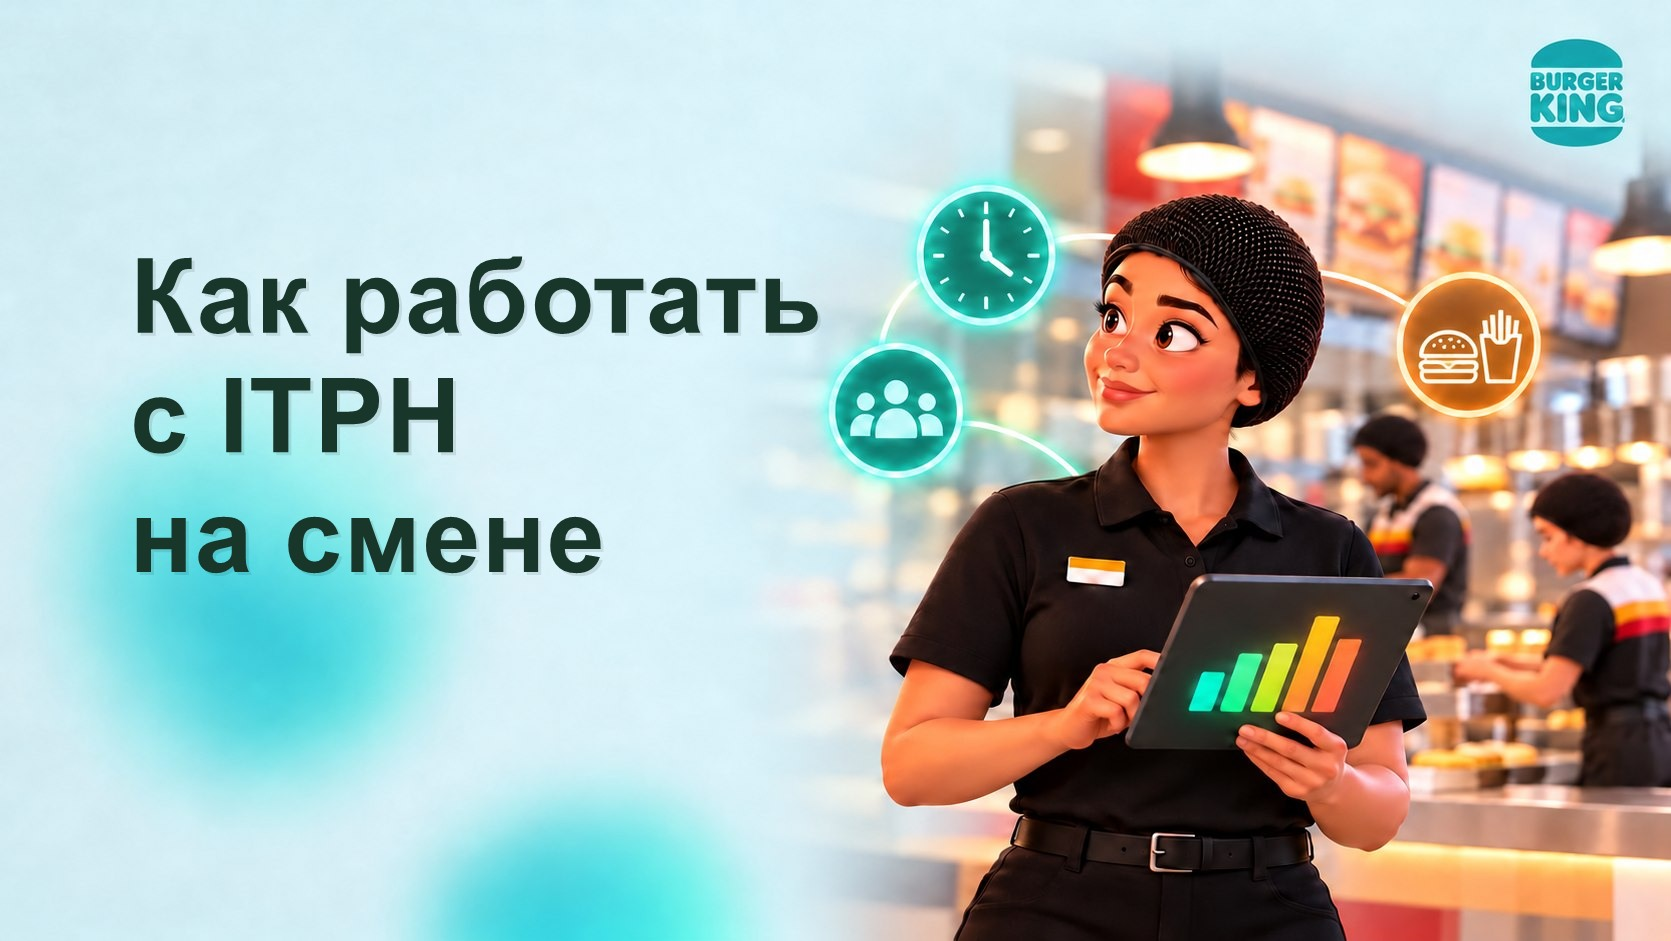
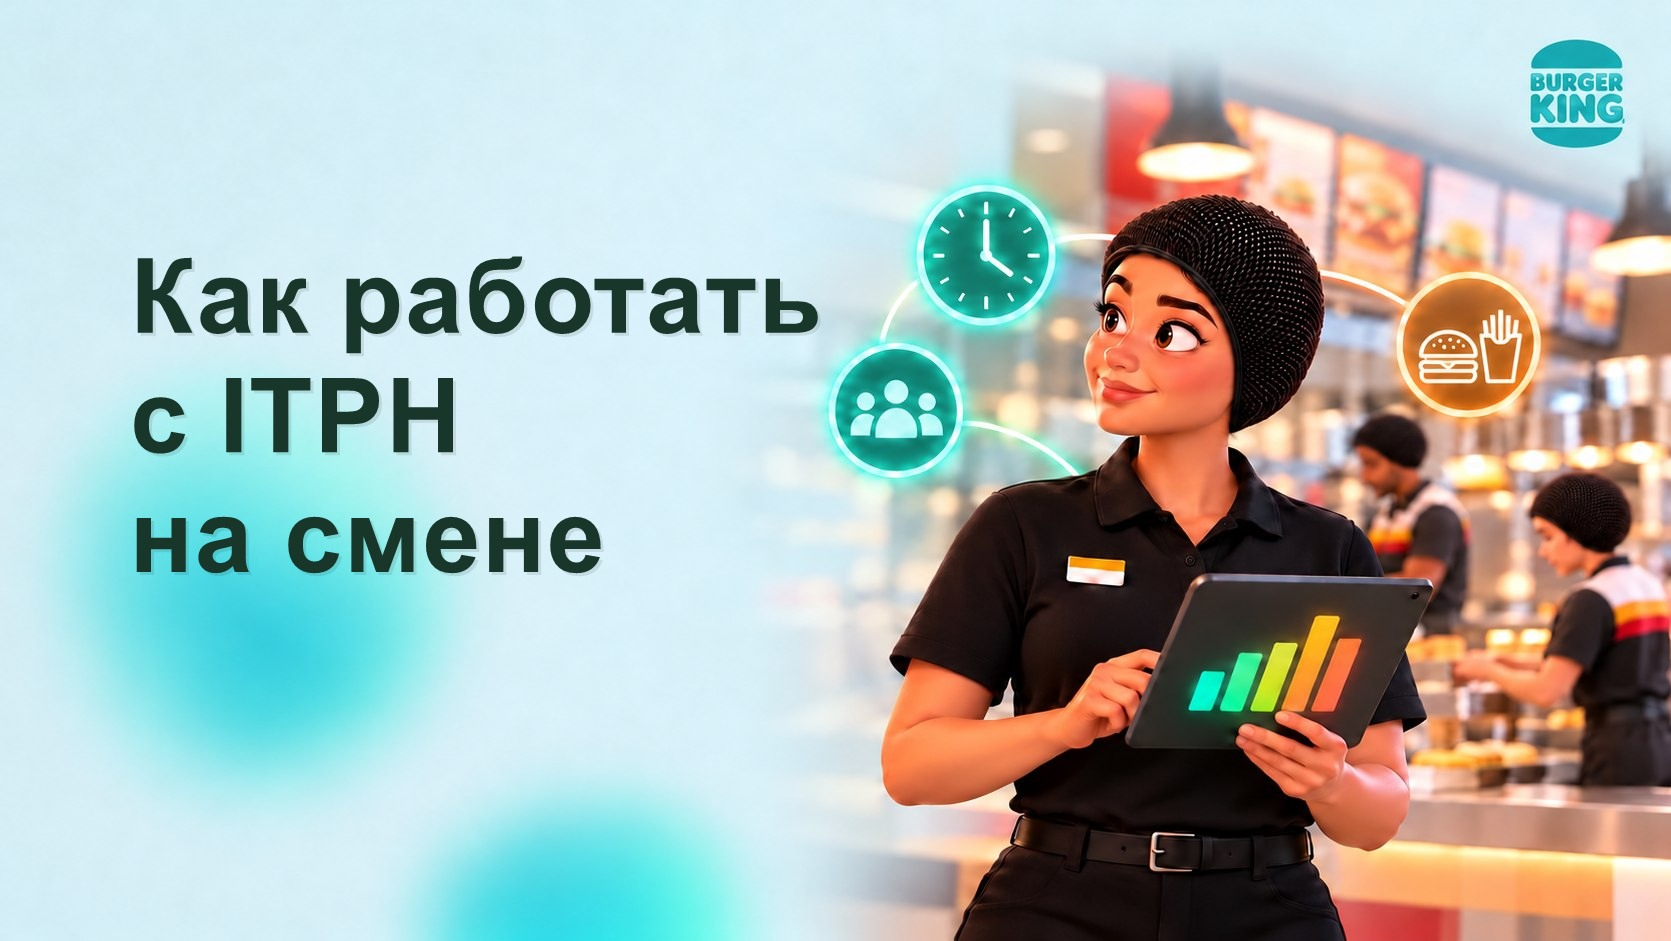
Cover employee ears with hair nets in course visuals

diff --git a/index.html b/index.html
@@ -25,7 +25,7 @@
   <main>
     <section class="page active" id="page-home">
       <div class="hero-placeholder" role="img" aria-label="Графическая обложка курса направления Люди">
-        <img class="hero-art" src="assets/images/course-cover-itph-v3.jpg" alt="" aria-hidden="true">
+        <img class="hero-art" src="assets/images/course-cover-itph-v4.jpg" alt="" aria-hidden="true">
         <div class="hero-copy">
           <span class="course-duration">⏱ 10–15 минут</span>
           <h1>Как работать<br>с ITPH<br>на смене</h1>
@@ -71,7 +71,7 @@
         </div>
 
         <figure class="story-visual story-visual--observation fade-in">
-          <img src="assets/images/itph-observation-scene-v4.jpg" alt="Управляющий наблюдает за работой команды, кассы, кухни и зала" loading="lazy">
+          <img src="assets/images/itph-observation-scene-v5.jpg" alt="Управляющий наблюдает за работой команды, кассы, кухни и зала" loading="lazy">
           <figcaption><span>Сначала наблюдай</span><b>Показатель становится полезным, когда ты сопоставляешь его с тем, что происходит на смене.</b></figcaption>
         </figure>
         <div class="body-copy fade-in"><p>ITPH — следствие того, как организована смена.</p><p>Если он ниже цели, часов сотрудников может быть больше, чем нужно при текущем потоке. Если выше — команда может быть перегружена.</p><p>Цель по ITPH ты можешь узнать у директора, а также в программах Brave&amp;Bold и WFM.</p></div>
@@ -164,7 +164,7 @@
       <div class="content-wrap lesson-body">
         <div class="section-title fade-in"><p class="eyebrow">Перед сменой</p><h2>Изучи три шага подготовки</h2></div>
         <figure class="story-visual story-visual--briefing fade-in">
-          <img src="assets/images/itph-briefing-scene-v4.jpg" alt="Управляющий проводит пятиминутку с командой перед сменой" loading="lazy">
+          <img src="assets/images/itph-briefing-scene-v5.jpg" alt="Управляющий проводит пятиминутку с командой перед сменой" loading="lazy">
           <figcaption><span>Подготовь команду</span><b>План работает, когда каждый понимает своё место, цель и момент, когда нужно позвать помощь.</b></figcaption>
         </figure>
         <div class="prep-list fade-in">
@@ -196,7 +196,7 @@
       <div class="content-wrap lesson-body">
         <aside class="callout fade-in"><strong>Ты — управленец</strong><p>Выделяй 10 минут в каждом часе на анализ показателей и работы смены. Отслеживай ITPH в динамике: сравнивай часы, замечай повторяющиеся отклонения и проверяй результат своих решений.</p></aside>
         <figure class="story-visual story-visual--control fade-in">
-          <img src="assets/images/itph-hourly-control-scene-v5.jpg" alt="Управляющий анализирует показатель и одновременно наблюдает за сменой" loading="lazy">
+          <img src="assets/images/itph-hourly-control-scene-v6.jpg" alt="Управляющий анализирует показатель и одновременно наблюдает за сменой" loading="lazy">
           <figcaption><span>10 минут каждый час</span><b>Сверь цифру, посмотри на поток и качество, затем оцени работу станций.</b></figcaption>
         </figure>
         <div class="body-copy fade-in"><p>Каждый час открывай Brave&amp;Bold и сверяй ITPH с целью. Затем посмотри на смену: не простаивают ли сотрудники, есть ли заготовки и не появилась ли западающая зона. После этого скорректируй расстановку или действия сотрудников.</p></div>
@@ -264,9 +264,9 @@
       </header>
       <div class="content-wrap lesson-body">
         <div class="flip-grid fade-in">
-          <button class="flip-card" type="button" onclick="flipMistake(this)" aria-expanded="false"><span class="flip-front"><small>Ошибка 01</small><img class="flip-visual" src="assets/images/itph-trap-high-v4.jpg" alt="Перегруженная команда работает в высокий поток" loading="lazy"><b>«ITPH высокий — значит, команда молодец»</b><i>Нажми, чтобы перевернуть</i></span><span class="flip-back"><small>Решение</small><b>Сверь цель, скорость обслуживания и качество.</b><p>Высокий показатель может означать перегрузку и риск ошибок.</p></span></button>
-          <button class="flip-card" type="button" onclick="flipMistake(this)" aria-expanded="false"><span class="flip-front"><small>Ошибка 02</small><img class="flip-visual" src="assets/images/itph-trap-average-v3.jpg" alt="Почасовые отклонения скрываются за средним значением" loading="lazy"><b>Смотреть только среднее за день</b><i>Нажми, чтобы перевернуть</i></span><span class="flip-back"><small>Решение</small><b>Проверяй часовую динамику.</b><p>Она показывает, когда оставить сотрудников, а когда отпустить или перенаправить в другой ресторан.</p></span></button>
-          <button class="flip-card" type="button" onclick="flipMistake(this)" aria-expanded="false"><span class="flip-front"><small>Ошибка 03</small><img class="flip-visual" src="assets/images/itph-trap-data-only-v3.jpg" alt="Управляющий смотрит на показатель и не замечает работу смены" loading="lazy"><b>Ориентироваться только на цифры из Brave&amp;Bold</b><i>Нажми, чтобы перевернуть</i></span><span class="flip-back"><small>Решение</small><b>После цифры посмотри на смену.</b><p>Проверь расстановку, работу на станциях и не простаивают ли сотрудники, которые могут заняться уборкой или пополнением.</p></span></button>
+          <button class="flip-card" type="button" onclick="flipMistake(this)" aria-expanded="false"><span class="flip-front"><small>Ошибка 01</small><img class="flip-visual" src="assets/images/itph-trap-high-v5.jpg" alt="Перегруженная команда работает в высокий поток" loading="lazy"><b>«ITPH высокий — значит, команда молодец»</b><i>Нажми, чтобы перевернуть</i></span><span class="flip-back"><small>Решение</small><b>Сверь цель, скорость обслуживания и качество.</b><p>Высокий показатель может означать перегрузку и риск ошибок.</p></span></button>
+          <button class="flip-card" type="button" onclick="flipMistake(this)" aria-expanded="false"><span class="flip-front"><small>Ошибка 02</small><img class="flip-visual" src="assets/images/itph-trap-average-v4.jpg" alt="Почасовые отклонения скрываются за средним значением" loading="lazy"><b>Смотреть только среднее за день</b><i>Нажми, чтобы перевернуть</i></span><span class="flip-back"><small>Решение</small><b>Проверяй часовую динамику.</b><p>Она показывает, когда оставить сотрудников, а когда отпустить или перенаправить в другой ресторан.</p></span></button>
+          <button class="flip-card" type="button" onclick="flipMistake(this)" aria-expanded="false"><span class="flip-front"><small>Ошибка 03</small><img class="flip-visual" src="assets/images/itph-trap-data-only-v4.jpg" alt="Управляющий смотрит на показатель и не замечает работу смены" loading="lazy"><b>Ориентироваться только на цифры из Brave&amp;Bold</b><i>Нажми, чтобы перевернуть</i></span><span class="flip-back"><small>Решение</small><b>После цифры посмотри на смену.</b><p>Проверь расстановку, работу на станциях и не простаивают ли сотрудники, которые могут заняться уборкой или пополнением.</p></span></button>
         </div>
         <div class="body-copy fade-in"><p>Теперь проверь себя в трёх ситуациях на смене: выбери действие, которое поможет устранить причину, а не просто отреагировать на цифру.</p></div>
         <div class="next-row"><button class="btn-primary" type="button" onclick="advanceTo('practice')">Пройти три кейса <span>→</span></button><p class="test-reminder" id="gate-reminder-mistakes" hidden aria-live="polite"></p></div>
